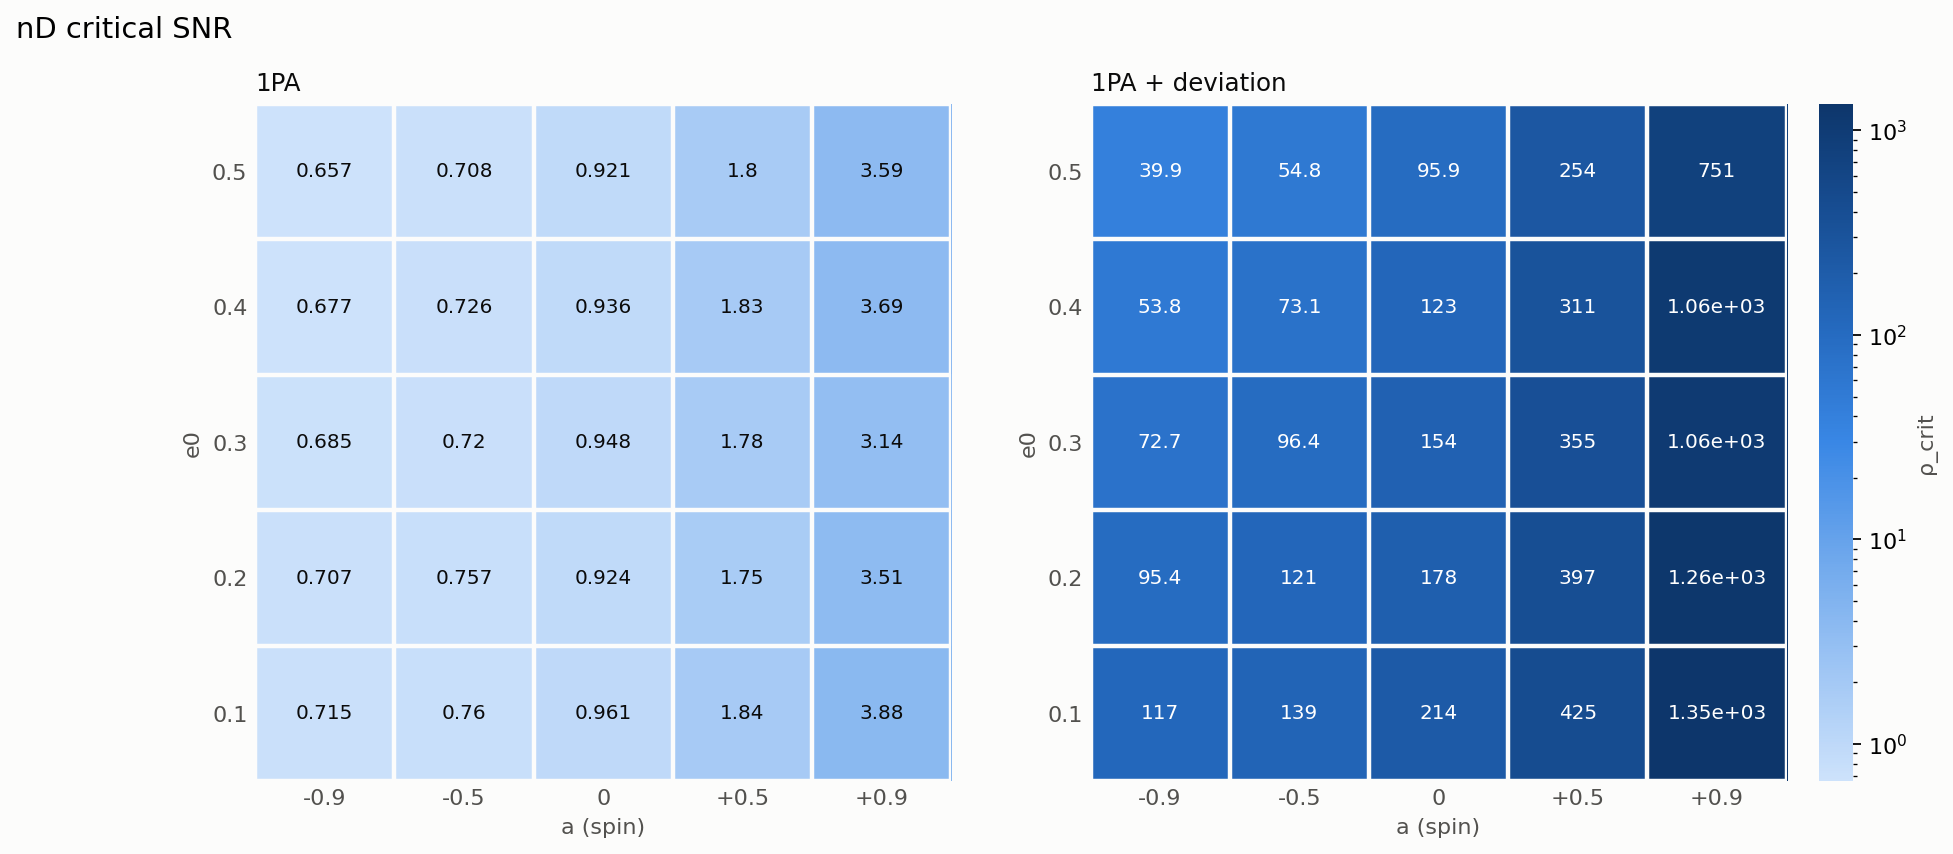
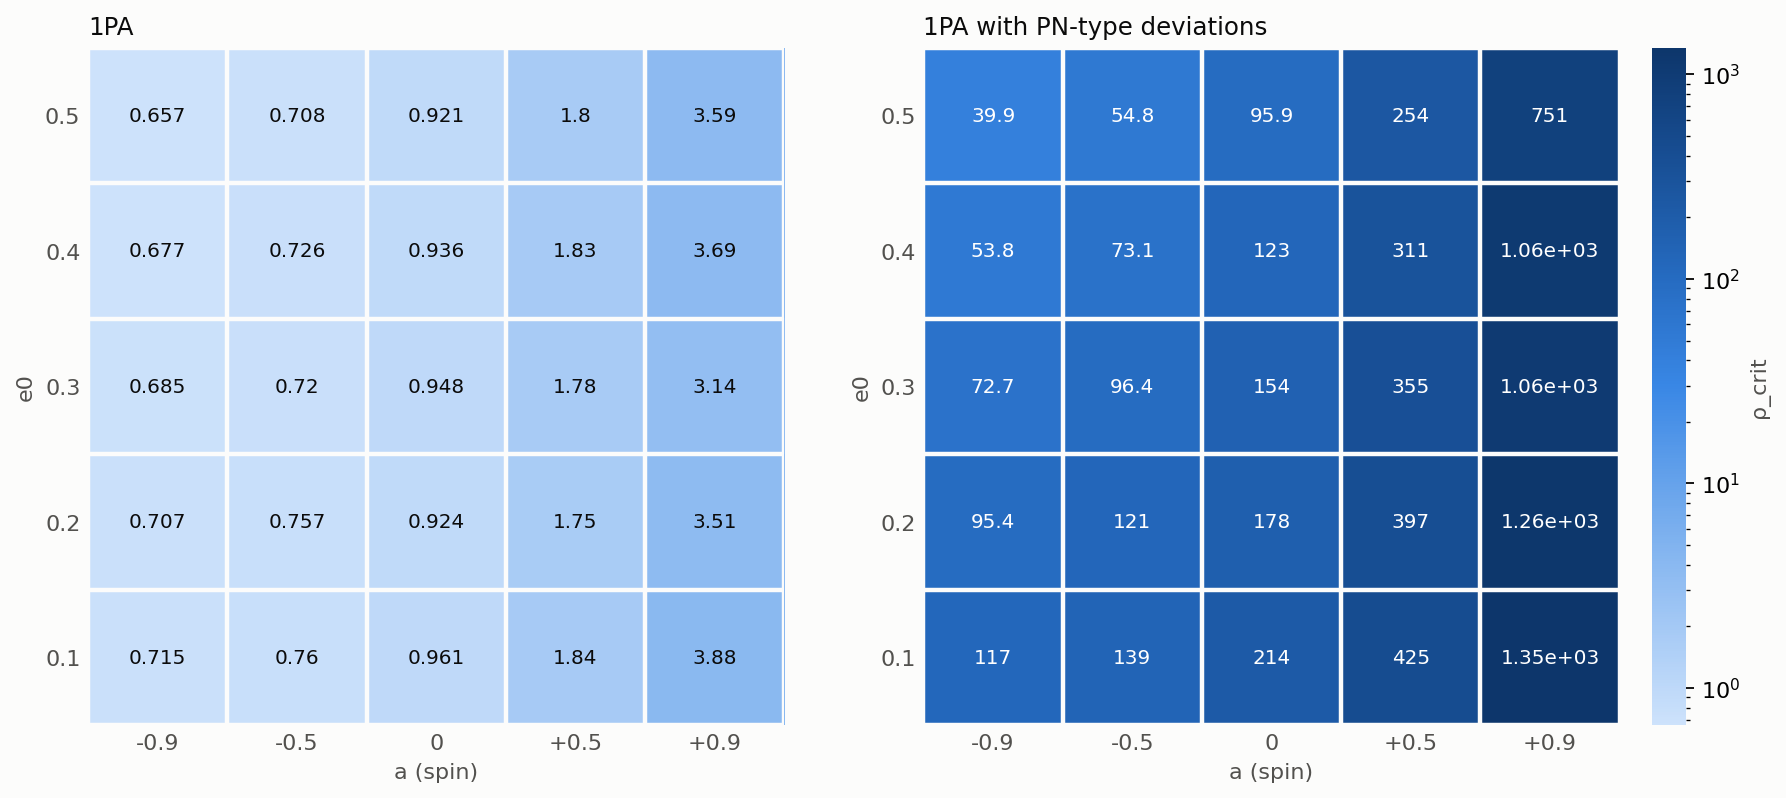
.

diff --git a/1PA_vs_2PA/IMRI_TAIL_dev/results/plot_codes/plot_critical_snr_nd.py b/1PA_vs_2PA/IMRI_TAIL_dev/results/plot_codes/plot_critical_snr_nd.py
@@ -17,7 +17,7 @@ from plot_critical_snr import CLS, SNR0, VARIANTS, critical
 from bias_data import load_bias
 
 OUT_DIR = Path(__file__).resolve().parents[3] / "results" / "plots"
-TEMPLATES = (("1pa", "1PA"), ("dev", "1PA + deviation"))
+TEMPLATES = (("1pa", "1PA"), ("dev", "1PA with PN-type deviations"))
 
 
 def panel(ax, values, norm, title):
@@ -39,7 +39,6 @@ def figure(pts, crits, cl, variant):
     cb = fig.colorbar(im, ax=axes, fraction=0.03, pad=0.02)
     cb.set_label("ρ_crit", color=TEXT_2)
     cb.outline.set_visible(False)
-    fig.suptitle("nD critical SNR", x=0.01, ha="left", fontsize=13)
     return fig
 
 
